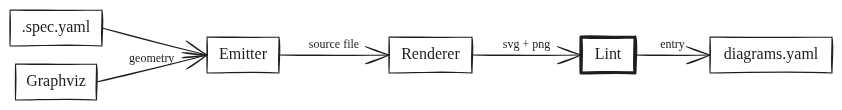
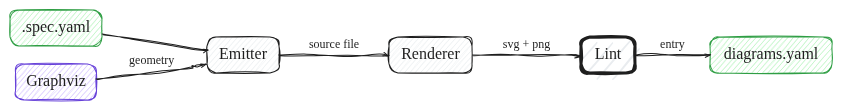
docs: record the excalidraw fidelity pass and refresh the example
Four commits (b33f094..844224b) changed how the excalidraw emitter and the
Graphviz layout behave and left no trace outside their commit messages. The
amendments now carry them: A19 corrects A16's group/member overlap, A20 the
exit-axis and native styling fix, A21 the spline parsing in layout.py, A22
group enclosures and paint order.

The shipped example predated all of it -- rendered at 14:26 against an emitter
that was rewritten at 20:53 -- so it demonstrated straight point-to-point
arrows and the uniform seed=1 wobble. Re-rendered; lint and check are clean and
the render is byte-identical on a second run.

Also recorded as a known gap: `lint` has no --format, so since A18 it
bounds-checks whichever render it finds first and calls the diagram clean.

Claude-Session: https://claude.ai/code/session_016voERo9kSaKhZTqffqQfgx

diff --git a/docs/plans/2026-08-16-designcore-implementation-plan.md b/docs/plans/2026-08-16-designcore-implementation-plan.md
@@ -236,6 +236,47 @@ these three changed a design decision and are recorded here.
   files under `src/` and `out/` that no entry references. It reports and never deletes:
   removing a file a document may still link to is the author's decision.
 
+## Execution amendments (2026-08-17, excalidraw fidelity pass)
+
+Found by drawing real specs for other projects (FigmentLab) rather than by a test. Each of
+these produced a diagram that was structurally correct, passed lint, and was still wrong to
+look at — the same lesson A15 recorded.
+
+- **A19 (corrects A16):** A16 folded group boxes into the placements handed to
+  `check_geometry`, but a container encloses its members by construction, so every group was
+  reported as overlapping every node inside it — the first grouped diagram was unusable.
+  `lint_diagram` now takes `groups=` separately and runs its own overlap pass over them, so
+  containers are still checked against each other but never against their own contents.
+
+- **A20 (amends Task 9's excalidraw emitter):** `_connection_points` chose its exit axis by
+  the larger centre delta. In a layered TB graph, boxes routinely overlap horizontally while
+  sitting on different ranks, so the arrow left the right edge and swept backwards across the
+  diagram — eight of nine arrows wrong on the first real top-down graph. The axis is now
+  chosen by which one actually *separates* the two boxes. Styling moved to the format's own
+  idiom in the same pass: per-element seeds (crc32 of the id, so still deterministic) instead
+  of a shared `seed=1` that gave every shape an identical rough.js wobble, rounded rectangles,
+  and roles mapped to the Excalidraw palette with hachure fill (external stays dashed and
+  unfilled, matching the other emitters).
+
+- **A21 (amends Task 7's `layout.py`):** `layout.py` parsed only node and cluster geometry out
+  of the `-Tjson` document, discarding the edge splines Graphviz had already computed to avoid
+  intervening nodes — so emitters drew straight point-to-point lines through whatever sat
+  between the endpoints. `layout_edges`/`layout_all` now parse the spline `pos` attribute into
+  top-left pixel paths; note the leading `e,` token is the **arrowhead tip** and belongs at the
+  end of the path, not the start where it is written. The excalidraw emitter follows that path
+  as a multi-point arrow (roundness type 2) and falls back to the straight connection points
+  when no route exists. Arrowheads are declared explicitly rather than left to a viewer default.
+
+- **A22 (amends Task 9's excalidraw emitter):** the mermaid emitter draws subgraphs and the
+  drawio emitter draws container cells, but excalidraw ignored `spec.groups` entirely — an
+  excalidraw render silently dropped boundaries the spec had declared. Groups now emit as
+  labelled dashed enclosures, written *ahead of* their members so Excalidraw's paint order puts
+  them behind, and styled as boundaries rather than as shapes competing with the nodes inside.
+
+**Known gap (not yet fixed):** since A18 a diagram can exist in several formats at once, but
+`designcore lint` has no `--format`; `cli._rendered_svg` returns the first render it finds, so
+lint bounds-checks exactly one of the three and reports `clean` for the diagram as a whole.
+
 ---
 
 ### Task 1: Repository scaffold and `designcore doctor`

diff --git a/skills/_shared/references/excalidraw.md b/skills/_shared/references/excalidraw.md
@@ -1,12 +1,24 @@
 # Excalidraw mechanics
 
-## Positions come from Graphviz
+## Positions and routes come from Graphviz
 
 The scene is generated: each node becomes a `rectangle` at its computed
-placement with a bound `text` label, and each edge an `arrow` with
-`startBinding`/`endBinding` referencing the node ids. Emphasis maps to
-`strokeWidth` and `opacity`. The hand-drawn look is Excalidraw's rendering, not
-randomness in the geometry — the layout is as deterministic as the other
+placement with a bound `text` label, each group a labelled dashed enclosure
+written ahead of its members so it paints behind them, and each edge an `arrow`
+with `startBinding`/`endBinding` referencing the node ids.
+
+Arrows **follow the Graphviz spline**, as a multi-point path with roundness type
+2, so an edge bends around whatever sits between its endpoints instead of
+cutting through it. Only when no route exists does the emitter fall back to
+straight connection points between the two boxes — and that fallback picks its
+exit axis by which one *separates* the boxes, not by the larger centre delta
+(see amendments A20 and A21).
+
+Roles map to the Excalidraw palette with hachure fill, external stays dashed and
+unfilled, and emphasis maps to `strokeWidth` and `opacity`. The hand-drawn look
+is Excalidraw's rendering, not randomness in the geometry: seeds are per-element
+(crc32 of the node id), which varies the wobble between shapes while keeping the
+scene byte-identical across runs. The layout is as deterministic as the other
 formats.
 
 Labels need no special escaping here: the document is serialized with

diff --git a/docs/plans/2026-08-16-designcore-design.md b/docs/plans/2026-08-16-designcore-design.md
@@ -192,7 +192,7 @@ them to each format's idiom.
 |---|---|---|
 | **mermaid** | spec → mermaid text | mermaid's own renderer |
 | **drawio** | spec → Graphviz `dot` positions → owned mxGraph XML emitter (roles/emphasis mapped to styles; `search_shapes` for branded icons) | Graphviz |
-| **excalidraw** | spec → Graphviz `dot` positions → `.excalidraw` JSON emitter | Graphviz |
+| **excalidraw** | spec → Graphviz `dot` positions *and edge splines* → `.excalidraw` JSON emitter | Graphviz |
 
 Excalidraw and drawio are the owned emitters — Excalidraw because no upstream converter
 exists, drawio because the 2026-08-16 probe retired the planned `@drawio/mcp` conversion path.

diff --git a/ARCHITECTURE.md b/ARCHITECTURE.md
@@ -23,7 +23,7 @@ no aesthetic decisions, and the skills compute no geometry.
 | module | responsibility |
 |---|---|
 | `spec.py` | the graph spec model and its validation; rejects coordinates |
-| `layout.py` | Graphviz invocation; node placements and group bounding boxes |
+| `layout.py` | Graphviz invocation; node placements, group bounding boxes, edge splines |
 | `emit/` | `mermaid.py`, `drawio.py`, `excalidraw.py` — spec + placements → source |
 | `render/` | one module per backend, plus `js/` (the Excalidraw Node helper) |
 | `lint/` | `structural.py`, `density.py`, `geometry.py` → `Finding` |
